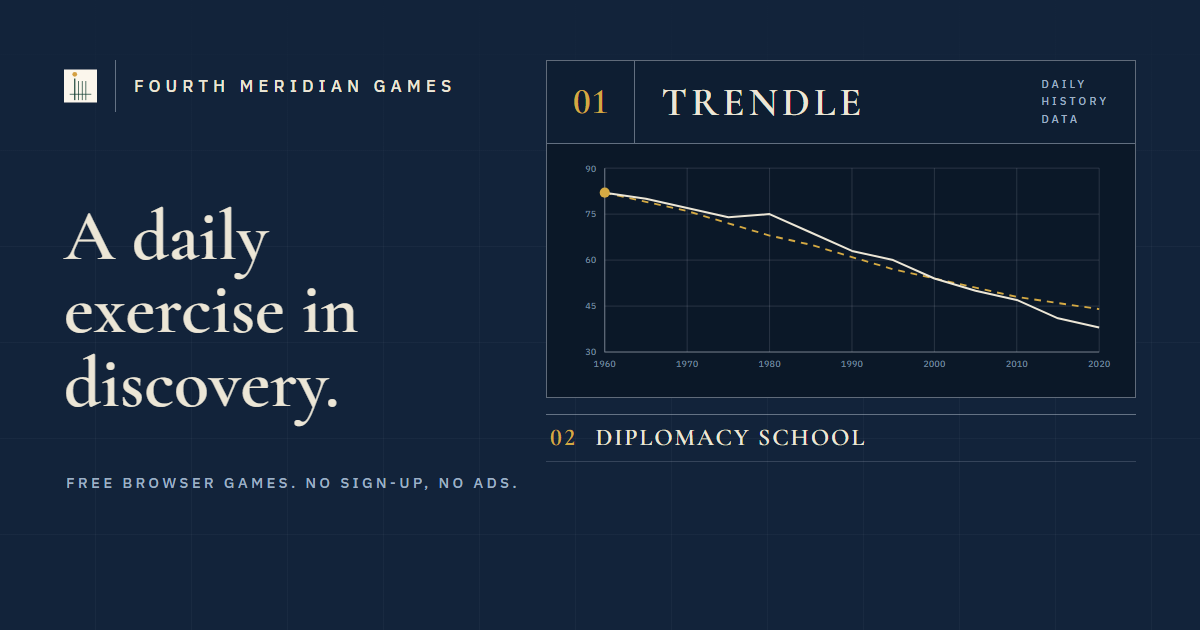
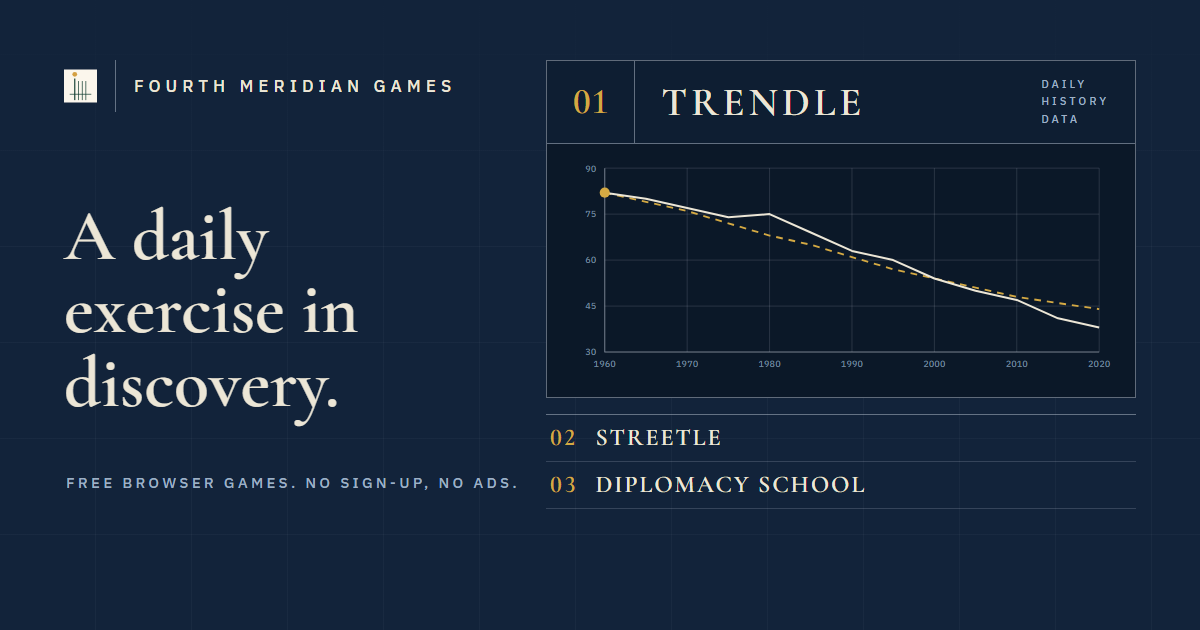
Publish hub build of 31a82f6 to staging

Changed region(s): [[0.4933, 0.6635, 0.7092, 0.7238], [0.4625, 0.754, 0.74, 0.7841]]

diff --git a/hub-staging/index.html b/hub-staging/index.html
@@ -5,30 +5,30 @@
   <meta charset="utf-8">
   <meta name="viewport" content="width=device-width, initial-scale=1">
   <title>[STAGING] Fourth Meridian Games · Free browser games by James Larsen</title>
-  <meta name="description" content="Free browser games by James Larsen, no sign-up and no ads: Trendle (draw the rest of history), Diplomacy School (learn the board game Diplomacy).">
+  <meta name="description" content="Free browser games by James Larsen, played right in your browser with no sign-up and no ads: Trendle, Streetle and Diplomacy School.">
   <meta name="author" content="James Larsen">
   <meta name="theme-color" content="#12233a">
   <link rel="canonical" href="https://fourthmeridiangames.com/">
   <meta property="og:type" content="website">
   <meta property="og:site_name" content="Fourth Meridian Games">
   <meta property="og:title" content="Fourth Meridian Games · Free browser games by James Larsen">
-  <meta property="og:description" content="Free browser games by James Larsen, no sign-up and no ads: Trendle (draw the rest of history), Diplomacy School (learn the board game Diplomacy).">
+  <meta property="og:description" content="Free browser games by James Larsen, played right in your browser with no sign-up and no ads: Trendle, Streetle and Diplomacy School.">
   <meta property="og:url" content="https://fourthmeridiangames.com/">
   <meta property="og:image" content="https://fourthmeridiangames.com/og.png?v=2">
   <meta property="og:image:width" content="1200">
   <meta property="og:image:height" content="630">
-  <meta property="og:image:alt" content="Fourth Meridian Games: A daily exercise in discovery, beside previews of Trendle and Diplomacy School">
+  <meta property="og:image:alt" content="Fourth Meridian Games: A daily exercise in discovery, beside previews of Trendle and Streetle and Diplomacy School">
   <meta name="twitter:card" content="summary_large_image">
   <meta name="twitter:title" content="Fourth Meridian Games · Free browser games by James Larsen">
-  <meta name="twitter:description" content="Free browser games by James Larsen, no sign-up and no ads: Trendle (draw the rest of history), Diplomacy School (learn the board game Diplomacy).">
+  <meta name="twitter:description" content="Free browser games by James Larsen, played right in your browser with no sign-up and no ads: Trendle, Streetle and Diplomacy School.">
   <meta name="twitter:image" content="https://fourthmeridiangames.com/og.png?v=2">
-  <meta name="twitter:image:alt" content="Fourth Meridian Games: A daily exercise in discovery, beside previews of Trendle and Diplomacy School">
+  <meta name="twitter:image:alt" content="Fourth Meridian Games: A daily exercise in discovery, beside previews of Trendle and Streetle and Diplomacy School">
   <link rel="icon" href="/favicon.ico" sizes="48x48">
   <link rel="icon" type="image/svg+xml" href="favicon.svg">
   <link rel="icon" type="image/png" sizes="96x96" href="icon-96.png">
   <link rel="apple-touch-icon" href="apple-touch-icon.png">
   <script type="application/ld+json">{"@context":"https://schema.org","@type":"WebSite","name":"Fourth Meridian Games","url":"https://fourthmeridiangames.com/","author":{"@type":"Person","name":"James Larsen"}}</script>
-  <script type="application/ld+json">{"@context":"https://schema.org","@type":"ItemList","name":"Games on Fourth Meridian Games","itemListElement":[{"@type":"ListItem","position":1,"item":{"@type":"VideoGame","name":"Trendle","url":"https://fourthmeridiangames.com/trendle/","description":"See one real data point, then draw how the statistic changed over the decades. Stay close to the real line to build a streak. Five new charts every day, the same for everyone.","image":"https://fourthmeridiangames.com/thumbs/trendle.jpg","genre":["Daily","History","Data"],"gamePlatform":"Web browser","author":{"@type":"Person","name":"James Larsen"}}},{"@type":"ListItem","position":2,"item":{"@type":"VideoGame","name":"Diplomacy School","url":"https://fourthmeridiangames.com/diplomacy-school-play/","description":"An interactive school for Diplomacy: play through a guided campaign as Turkey to learn the rules, then the tactics, then the art of the credible lie.","image":"https://fourthmeridiangames.com/thumbs/diplomacy-school.jpg","genre":["Learn","Strategy"],"gamePlatform":"Web browser","author":{"@type":"Person","name":"James Larsen"}}}]}</script>
+  <script type="application/ld+json">{"@context":"https://schema.org","@type":"ItemList","name":"Games on Fourth Meridian Games","itemListElement":[{"@type":"ListItem","position":1,"item":{"@type":"VideoGame","name":"Trendle","url":"https://fourthmeridiangames.com/trendle/","description":"See one real data point, then draw how the statistic changed over the decades. Stay close to the real line to build a streak. Five new charts every day, the same for everyone.","image":"https://fourthmeridiangames.com/thumbs/trendle.jpg","genre":["Daily","History","Data"],"gamePlatform":"Web browser","author":{"@type":"Person","name":"James Larsen"}}},{"@type":"ListItem","position":2,"item":{"@type":"VideoGame","name":"Streetle","url":"https://fourthmeridiangames.com/streetle/","description":"Each day, an unlabelled 3D model of part of a real city. Read its street plan and buildings, then the clues each wrong guess reveals, and name it in six guesses.","image":"https://fourthmeridiangames.com/thumbs/streetle.jpg","genre":["Daily","Geography","Cities"],"gamePlatform":"Web browser","author":{"@type":"Person","name":"James Larsen"}}},{"@type":"ListItem","position":3,"item":{"@type":"VideoGame","name":"Diplomacy School","url":"https://fourthmeridiangames.com/diplomacy-school-play/","description":"An interactive school for Diplomacy: play through a guided campaign as Turkey to learn the rules, then the tactics, then the art of the credible lie.","image":"https://fourthmeridiangames.com/thumbs/diplomacy-school.jpg","genre":["Learn","Strategy"],"gamePlatform":"Web browser","author":{"@type":"Person","name":"James Larsen"}}}]}</script>
   <link rel="preload" href="fonts/cormorant-garamond-latin-600-normal.woff2" as="font" type="font/woff2" crossorigin>
   <link rel="preload" href="fonts/ibm-plex-sans-latin-500-normal.woff2" as="font" type="font/woff2" crossorigin>
   <link rel="stylesheet" href="styles.css">
@@ -51,7 +51,7 @@
   </header>
   <section class="hero">
     <h1>A daily exercise in discovery.</h1>
-    <p class="lede">Games of history, data and strategy. Free in your browser, no sign-up, no ads.</p>
+    <p class="lede">Games of history, geography, data and strategy. Free in your browser, no sign-up, no ads.</p>
   </section>
   <main>
     <ul class="games" id="games" aria-label="Games">
@@ -73,9 +73,34 @@
           <a class="play" href="https://fourthmeridiangames.com/trendle/">Play Trendle<span class="arrow" aria-hidden="true">→</span></a>
         </div>
       </li>
-      <li class="card" data-game="diplomacy-school">
+      <li class="card" data-game="streetle">
         <div class="card-head">
           <span class="num">02</span>
+          <h2><a href="https://fourthmeridiangames.com/streetle/">Streetle</a></h2>
+          <span class="kicker">Daily<br>Geography<br>Cities</span>
+        </div>
+        <div class="card-body">
+          <p class="tagline">Name the city from its streets.</p>
+          <p class="desc">Each day, an unlabelled 3D model of part of a real city. Read its street plan and buildings, then the clues each wrong guess reveals, and name it in six guesses.</p>
+          <div class="picture"><svg class="art art-streets" viewBox="0 0 240 150" role="img" aria-label="A street plan: a grid, a diagonal avenue, a crooked old quarter and a river">
+  <defs><clipPath id="art-streets-clip"><rect x="8" y="8" width="224" height="134"/></clipPath></defs>
+  <g clip-path="url(#art-streets-clip)">
+    <rect class="art-block" x="94" y="32" width="24" height="18"/><rect class="art-block" x="150" y="54" width="24" height="18"/><rect class="art-block" x="178" y="98" width="24" height="18"/><rect class="art-block" x="122" y="98" width="24" height="18"/><rect class="art-block" x="206" y="32" width="22" height="18"/>
+    <g class="art-line-thin"><path d="M92 10V140 M120 10V140 M148 10V140 M176 10V140 M204 10V140 M80 30H230 M80 52H230 M80 74H230 M80 96H230 M80 118H230"/><path d="M10 34 Q30 40 44 30 T78 36"/><path d="M10 62 Q26 54 40 64 T80 60"/><path d="M10 92 Q34 86 46 98 T80 94"/><path d="M24 10 Q30 34 22 52 T30 100 T24 140"/><path d="M54 10 Q48 30 58 48 T50 92 T60 140"/></g>
+    <path class="art-river" d="M8 124 Q60 108 96 128 T170 132 T236 112"/>
+    <path class="art-avenue" d="M84 142 L232 14"/>
+    <path class="art-avenue" d="M80 8 V142"/>
+  </g>
+  <rect class="art-axis" x="8" y="8" width="224" height="134"/>
+  <circle class="art-accent-fill" cx="148" cy="74" r="5"/>
+  <circle class="art-pin-ring" cx="148" cy="74" r="10"/>
+</svg></div>
+          <a class="play" href="https://fourthmeridiangames.com/streetle/">Play Streetle<span class="arrow" aria-hidden="true">→</span></a>
+        </div>
+      </li>
+      <li class="card" data-game="diplomacy-school">
+        <div class="card-head">
+          <span class="num">03</span>
           <h2><a href="https://fourthmeridiangames.com/diplomacy-school-play/">Diplomacy School</a></h2>
           <span class="kicker">Learn<br>Strategy</span>
         </div>
@@ -86,10 +111,7 @@
           <a class="play" href="https://fourthmeridiangames.com/diplomacy-school-play/">Play Diplomacy School<span class="arrow" aria-hidden="true">→</span></a>
         </div>
       </li>
-      <li class="slot in-3 in-2" aria-hidden="true">
-        <span class="slot-mark">+</span>
-        <p>More games are being surveyed.</p>
-      </li>
+
     </ul>
   </main>
   <footer>

diff --git a/hub-staging/contact/index.html b/hub-staging/contact/index.html
@@ -17,12 +17,12 @@
   <meta property="og:image" content="https://fourthmeridiangames.com/og.png?v=2">
   <meta property="og:image:width" content="1200">
   <meta property="og:image:height" content="630">
-  <meta property="og:image:alt" content="Fourth Meridian Games: A daily exercise in discovery, beside previews of Trendle and Diplomacy School">
+  <meta property="og:image:alt" content="Fourth Meridian Games: A daily exercise in discovery, beside previews of Trendle and Streetle and Diplomacy School">
   <meta name="twitter:card" content="summary_large_image">
   <meta name="twitter:title" content="Contact · Fourth Meridian Games">
   <meta name="twitter:description" content="Contact Fourth Meridian Games: send feedback, suggest a game, ask about linking your game, or report a bug.">
   <meta name="twitter:image" content="https://fourthmeridiangames.com/og.png?v=2">
-  <meta name="twitter:image:alt" content="Fourth Meridian Games: A daily exercise in discovery, beside previews of Trendle and Diplomacy School">
+  <meta name="twitter:image:alt" content="Fourth Meridian Games: A daily exercise in discovery, beside previews of Trendle and Streetle and Diplomacy School">
   <link rel="icon" href="/favicon.ico" sizes="48x48">
   <link rel="icon" type="image/svg+xml" href="../favicon.svg">
   <link rel="icon" type="image/png" sizes="96x96" href="../icon-96.png">

diff --git a/hub-staging/about/index.html b/hub-staging/about/index.html
@@ -17,12 +17,12 @@
   <meta property="og:image" content="https://fourthmeridiangames.com/og.png?v=2">
   <meta property="og:image:width" content="1200">
   <meta property="og:image:height" content="630">
-  <meta property="og:image:alt" content="Fourth Meridian Games: A daily exercise in discovery, beside previews of Trendle and Diplomacy School">
+  <meta property="og:image:alt" content="Fourth Meridian Games: A daily exercise in discovery, beside previews of Trendle and Streetle and Diplomacy School">
   <meta name="twitter:card" content="summary_large_image">
   <meta name="twitter:title" content="About · Fourth Meridian Games">
   <meta name="twitter:description" content="About Fourth Meridian Games: small, free games for the browser by James Larsen. No sign-up, no ads.">
   <meta name="twitter:image" content="https://fourthmeridiangames.com/og.png?v=2">
-  <meta name="twitter:image:alt" content="Fourth Meridian Games: A daily exercise in discovery, beside previews of Trendle and Diplomacy School">
+  <meta name="twitter:image:alt" content="Fourth Meridian Games: A daily exercise in discovery, beside previews of Trendle and Streetle and Diplomacy School">
   <link rel="icon" href="/favicon.ico" sizes="48x48">
   <link rel="icon" type="image/svg+xml" href="../favicon.svg">
   <link rel="icon" type="image/png" sizes="96x96" href="../icon-96.png">

diff --git a/hub-staging/styles.css b/hub-staging/styles.css
@@ -421,6 +421,30 @@ nav .sep {
   fill: var(--ink);
 }
 
+.art-block {
+  fill: var(--rule);
+}
+
+.art-avenue {
+  fill: none;
+  stroke: var(--ink);
+  stroke-width: 2.2;
+}
+
+.art-river {
+  fill: none;
+  stroke: var(--muted);
+  stroke-width: 5;
+  stroke-linecap: round;
+  opacity: .45;
+}
+
+.art-pin-ring {
+  fill: none;
+  stroke: var(--gold);
+  stroke-width: 1.6;
+}
+
 .art-order,
 .art-order-head {
   fill: none;
